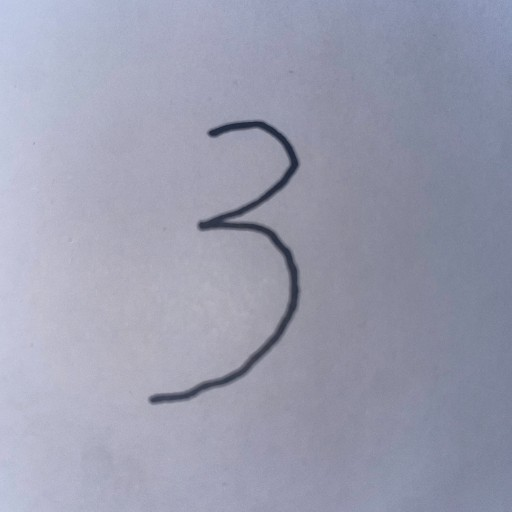
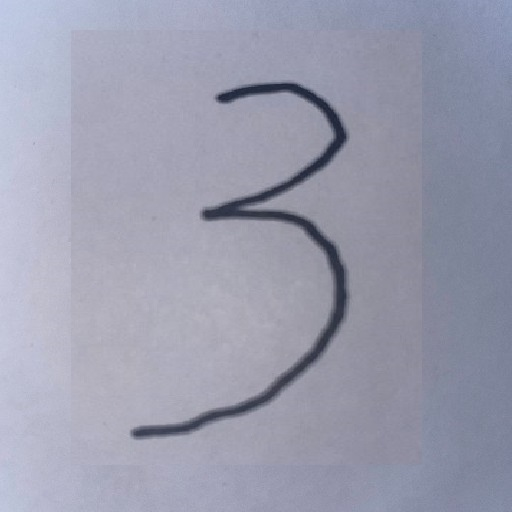
upd converter

Changed region(s): [[0.25, 0.1562, 0.6875, 0.875]]

diff --git a/converter.py b/converter.py
@@ -7,9 +7,10 @@
 import numpy as np
 from PIL import Image, ImageOps
 
+
 def convert_im(path):
-    n = 215 #Ползунок для изменения вхождения чёрного
-    τ = 45 # Допуск цвета
+    n = 70  # Ползунок для изменения вхождения чёрного
+    τ = 45  # Допуск цвета
 
     img = Image.open(path)
     arr = np.array(img)
@@ -24,26 +25,24 @@ def convert_im(path):
     for i in range(im_ht):
         for j in range(im_wt):
             r, g, b = map(int, arr[i, j])
-            aver_rgb_sum += r+g+b
+            aver_rgb_sum += r + g + b
 
-    aver_rgb_sum /= im_ht*im_wt
-
+    aver_rgb_sum /= im_ht * im_wt * 3
     τ = aver_rgb_sum
 
     for i in range(im_ht):
         for j in range(im_wt):
-            if abs(r - g) <= τ \
-                and abs(r - b) <= τ\
-                and abs(g - b) <= τ\
-                and sum(arr[i, j]) > n: # Проверим ещё черный цвет
-
-                    arr[i, j] = [255, 255, 255]
+            cur_sum = sum(arr[i, j])/3
+            # if cur_sum < n:
+            #     pass
+            if cur_sum > τ/1.7:
+                arr[i, j] = [255, 255, 255]
             else:
                 arr[i, j] = [0, 0, 0]
 
     arr = np.array(Image.fromarray(arr))
-    img = ImageOps.invert(Image.fromarray(arr)).resize((28, 28)) # Делаем его 28*28 как в базе данных
-    img = img.convert('L') # Делаем чб
+    img = ImageOps.invert(Image.fromarray(arr)).resize((28, 28))  # Делаем его 28*28 как в базе данных
+    img = img.convert('L')  # Делаем чб
 
     img.save('images/assets/test.jpg')
     arr = np.array(img)
@@ -52,4 +51,5 @@ def convert_im(path):
 
     # return img_array # Надо будет что-то придумать
 
-convert_im('images/raw/test_image2.jpg')
+
+convert_im('images/raw/test_image3.jpg')

diff --git a/main.py b/main.py
@@ -65,7 +65,7 @@ def main():
     train(model, x_train, x_test, y_train_cat, y_test_cat)
 
     # Тест
-    for i in range(1,7):
+    for i in range(1,8):
         convert_im(f'images/raw/test_image{i}.jpg')
         im = Image.open('images/assets/test.jpg')
         data = np.array(im)

diff --git a/README.md b/README.md
@@ -1,4 +1,4 @@
-<h1 align="center">Timofey (R) v.0.1.6 01.03.2023</h1>
+<h1 align="center">Timofey (R) v.0.1.9 01.03.2023</h1>
 <h3 align="center">Полносвязная нейронная сеть, распознающая цифры / Fully connected number recognition neural network</h3>
 <p align="center"><img src="https://img.shields.io/badge/TensorFlow-%23FF6F00.svg?style=for-the-badge&amp;logo=TensorFlow&amp;logoColor=white" alt="TensorFlow"></p>
 <h2>Описание</h2>
